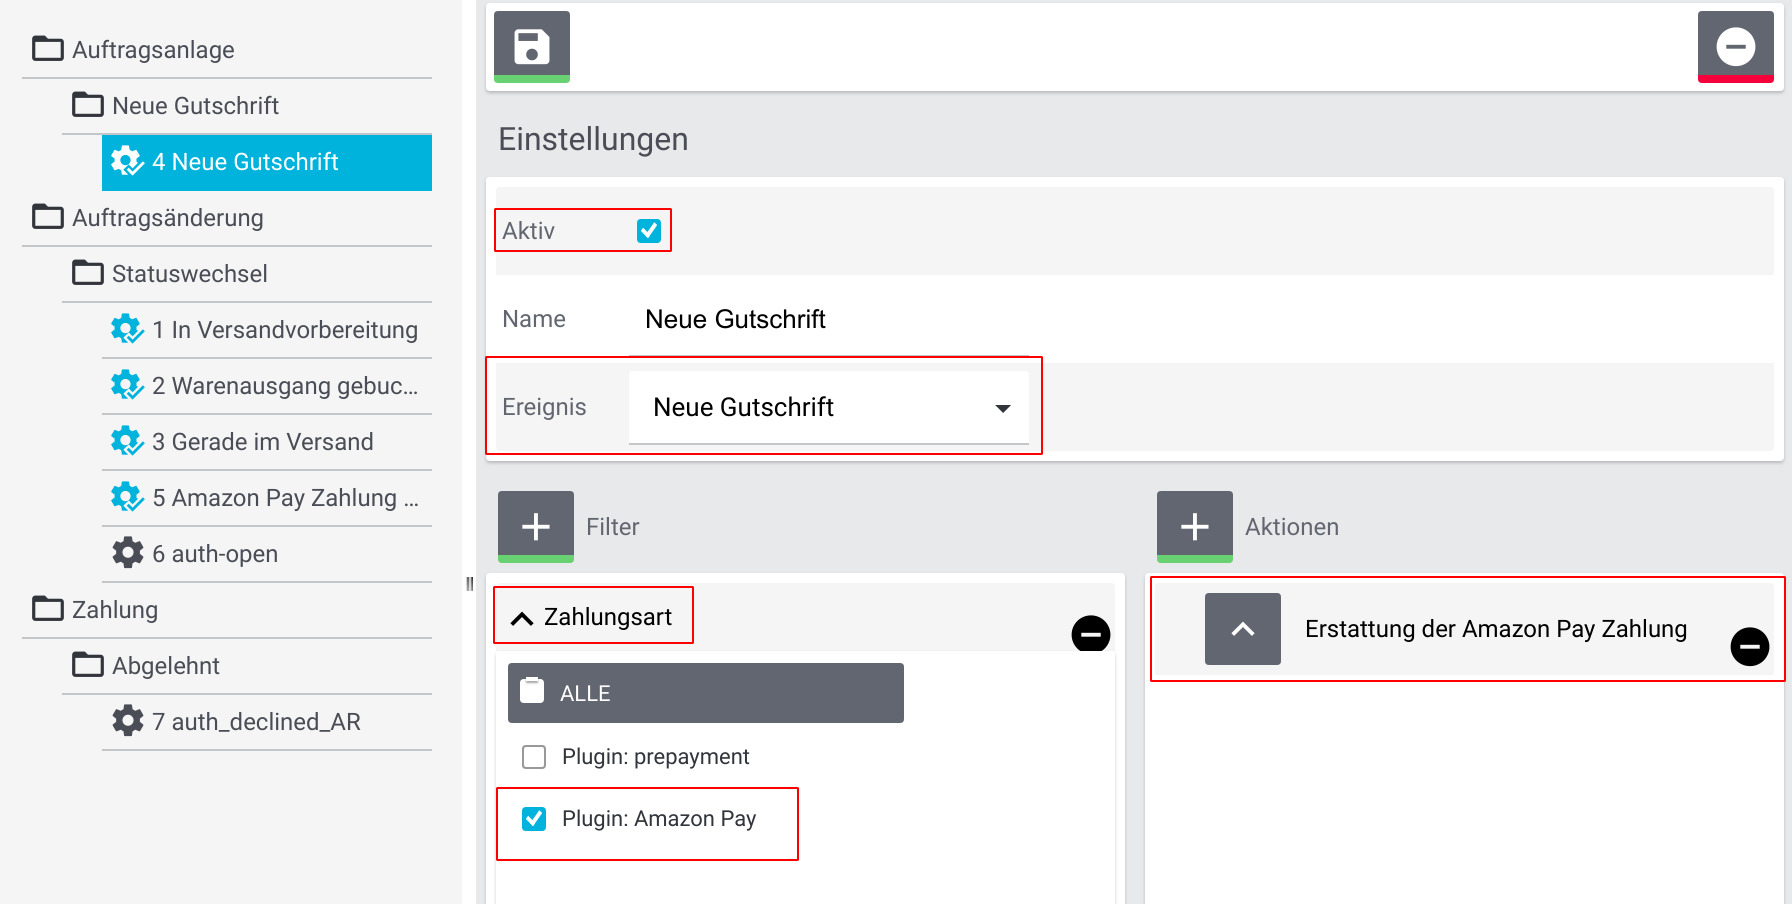
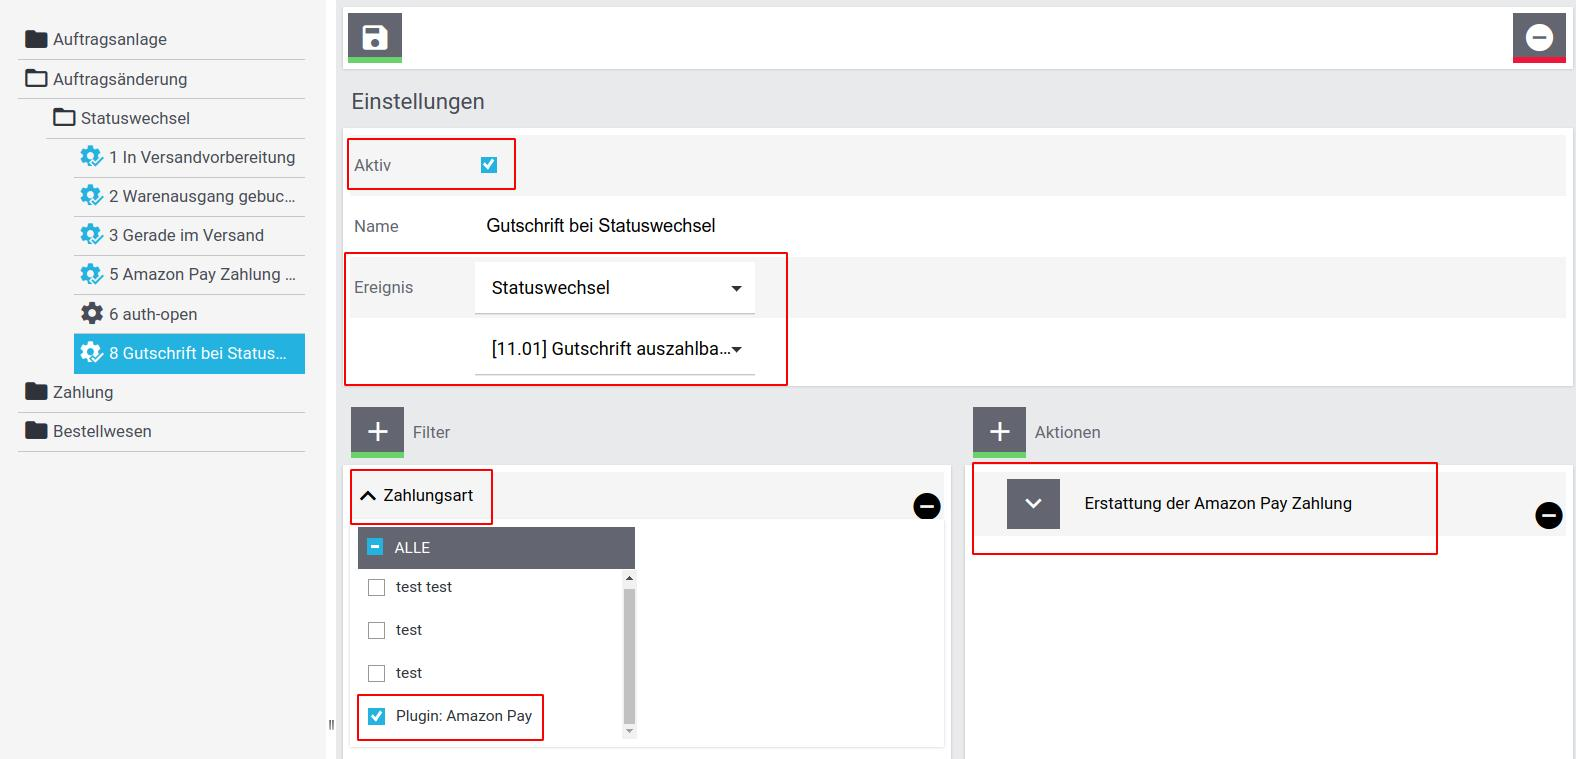
minor

diff --git a/index.html b/index.html
@@ -511,7 +511,7 @@
         <h3 id="anchor_34">3.4 Erstattung der Amazon Pay Zahlung</h3>
         <div>Um dem Kunden seine Zahlung im Fall einer Gutschrift zu erstatten, z.B. bei einer Retoure, solltest du
             diese
-            Ereignisaktion z.B. bei dem Ereignis "Neue Gutschrift" oder auch für den Statuswechsel einer Gutschrift einrichten. Die Aktion veranlasst eine Rückzahlung in
+            Ereignisaktion z.B. für den Statuswechsel einer Gutschrift oder die Anlage des Gutschriftdokuments einrichten. Die Aktion veranlasst eine Rückzahlung in
             Höhe der Gutschrift, die du angelegt hast.
             <br /><br />
             Das könnte z.&nbsp;B. so aussehen:<br />
